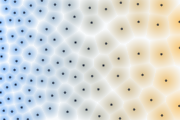
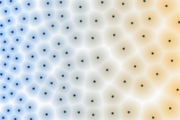
docs(spatial2d): refresh poisson disk sampling snapshots

diff --git a/docs/Spatial2D/sampling/poisson-disk-sampling.md b/docs/Spatial2D/sampling/poisson-disk-sampling.md
@@ -6,8 +6,6 @@
 
 ```csharp
 using System;
-using System.Collections.Generic;
-using System.IO;
 using Akeldov.Math.Spatial2D;
 using Akeldov.Math.Spatial2D.Fields;
 using Akeldov.Math.Spatial2D.Imaging;
@@ -15,98 +13,47 @@ using Akeldov.Math.Spatial2D.Rasterization;
 using Akeldov.Math.Spatial2D.Sampling.Point.PoissonDisk;
 
 var fieldSize = new VectorXY(120f, 80f);
-var grid = new RasterGrid(
-    origin: new PointXY(0f, 0f),
-    size: fieldSize,
-    resolution: new VectorXYInt(180, 120));
+var grid = new RasterGrid(new PointXY(0f, 0f), fieldSize, new VectorXYInt(180, 120));
 
-var sampler = new PoissonDiskPointSampler(new Random(12345), maxAttempts: 30);
-var distanceField = new HorizontalDistanceField(min: 5f, max: 13f, width: fieldSize.X);
+var sampler = new PoissonDiskPointSampler(new Random(45678), maxAttempts: 30);
+var distanceField = new FloatPointInfluenceField(
+    new BarycentricFloatSampler<FloatPointInfluenceSource>(),
+    new[]
+    {
+        new FloatPointInfluenceSource(1f, new PointXY(0f, 0f), 5f),
+        new FloatPointInfluenceSource(1f, new PointXY(fieldSize.X, 0f), 13f)
+    });
 
-List<PoissonDiskPointSample> samples =
-    sampler.Sample(fieldSize, distanceField);
+var samples = sampler.Sample(fieldSize, distanceField);
 
-RGBA16BitRaster raster = samples.Rasterize(grid, ToSnapshotColor);
-Directory.CreateDirectory("artifacts");
-raster.SaveAsPng(Path.Combine("artifacts", "poisson-disk-samples-rgba16.png"));
-
-static RGBA16BitColor ToSnapshotColor(PoissonDiskPointSample sample, float distance)
+var raster = samples.Rasterize(grid, (sample, distance) =>
 {
     float distanceT = MathF.Min(distance / sample.MinimalDistance, 1f);
     float distanceFill = (1f - distanceT) * 0.55f;
     float radiusT = MathF.Min(MathF.Max((sample.MinimalDistance - 5f) / 8f, 0f), 1f);
 
-    Rgb background = new Rgb(0.972f, 0.980f, 0.988f);
-    Rgb smallDistance = new Rgb(0.125f, 0.510f, 0.965f);
-    Rgb largeDistance = new Rgb(0.961f, 0.620f, 0.043f);
-    Rgb diskColor = Blend(smallDistance, largeDistance, radiusT);
-    Rgb color = Blend(background, diskColor, distanceFill);
-
+    float red = Blend(0.972f, Blend(0.125f, 0.961f, radiusT), distanceFill);
+    float green = Blend(0.980f, Blend(0.510f, 0.620f, radiusT), distanceFill);
+    float blue = Blend(0.988f, Blend(0.965f, 0.043f, radiusT), distanceFill);
     float pointAmount = MathF.Max(0f, 1f - distance / 1.15f);
-    return Blend(color, new Rgb(0.058f, 0.090f, 0.165f), pointAmount)
-        .ToRGBA16BitColor();
+
+    return new RGBA16BitColor(
+        red: ToChannel(Blend(red, 0.058f, pointAmount)),
+        green: ToChannel(Blend(green, 0.090f, pointAmount)),
+        blue: ToChannel(Blend(blue, 0.165f, pointAmount)),
+        alpha: ushort.MaxValue);
+});
+
+raster.SaveAsPng("poisson-disk-samples-rgba16.png");
+
+static float Blend(float from, float to, float amount)
+{
+    return from * (1f - amount) + to * amount;
 }
 
-static Rgb Blend(Rgb from, Rgb to, float amount)
+static ushort ToChannel(float value)
 {
-    amount = MathF.Min(MathF.Max(amount, 0f), 1f);
-    float inverseAmount = 1f - amount;
-
-    return new Rgb(
-        from.Red * inverseAmount + to.Red * amount,
-        from.Green * inverseAmount + to.Green * amount,
-        from.Blue * inverseAmount + to.Blue * amount);
-}
-
-readonly struct Rgb
-{
-    public Rgb(float red, float green, float blue)
-    {
-        Red = red;
-        Green = green;
-        Blue = blue;
-    }
-
-    public float Red { get; }
-
-    public float Green { get; }
-
-    public float Blue { get; }
-
-    public RGBA16BitColor ToRGBA16BitColor()
-    {
-        return new RGBA16BitColor(ToChannel(Red), ToChannel(Green), ToChannel(Blue), ushort.MaxValue);
-    }
-
-    private static ushort ToChannel(float value)
-    {
-        value = MathF.Min(MathF.Max(value, 0f), 1f);
-        return (ushort)MathF.Round(value * ushort.MaxValue);
-    }
-}
-
-public sealed class HorizontalDistanceField : IFloatField
-{
-    private readonly float _min;
-    private readonly float _max;
-    private readonly float _width;
-
-    public HorizontalDistanceField(float min, float max, float width)
-    {
-        _min = min;
-        _max = max;
-        _width = width;
-    }
-
-    public float Min => _min;
-    public float Max => _max;
-
-    public float Sample(PointXY point)
-    {
-        float t = point.X / _width;
-        t = MathF.Max(0f, MathF.Min(1f, t));
-        return _min + (_max - _min) * t;
-    }
+    return (ushort)MathF.Round(Math.Clamp(value, 0f, 1f) * ushort.MaxValue);
 }
 ```
 
@@ -116,61 +63,35 @@ public sealed class HorizontalDistanceField : IFloatField
 
 ```csharp
 using System;
-using System.Collections.Generic;
-using System.IO;
 using Akeldov.Math.Spatial2D;
 using Akeldov.Math.Spatial2D.Fields;
-using Akeldov.Math.Spatial2D.Imaging;
 using Akeldov.Math.Spatial2D.Rasterization;
 using Akeldov.Math.Spatial2D.Sampling.Point.PoissonDisk;
 
 var fieldSize = new VectorXY(120f, 80f);
-var grid = new RasterGrid(
-    origin: new PointXY(0f, 0f),
-    size: fieldSize,
-    resolution: new VectorXYInt(180, 120));
+var grid = new RasterGrid(new PointXY(0f, 0f), fieldSize, new VectorXYInt(180, 120));
 
-var sampler = new PoissonDiskPointSampler(new Random(12345), maxAttempts: 30);
-var distanceField = new HorizontalDistanceField(min: 5f, max: 13f, width: fieldSize.X);
-
-List<PoissonDiskPointSample> samples =
-    sampler.Sample(fieldSize, distanceField);
-
-Gray16BitRaster raster = samples.Rasterize(
-    grid,
-    new PoissonDiskPointSampleCollectionRingsGray16BitRasterizer(
-        pointRadius: 1.45f,
-        ringThickness: 0.18f,
-        backgroundGrayLevel: 0x1010,
-        ringGrayLevel: 0x8a8a,
-        pointGrayLevel: ushort.MaxValue));
-
-Directory.CreateDirectory("artifacts");
-raster.SaveAsPng(Path.Combine("artifacts", "poisson-disk-samples-rings-gray16.png"));
-
-public sealed class HorizontalDistanceField : IFloatField
-{
-    private readonly float _min;
-    private readonly float _max;
-    private readonly float _width;
-
-    public HorizontalDistanceField(float min, float max, float width)
+var sampler = new PoissonDiskPointSampler(new Random(45678), maxAttempts: 30);
+var distanceField = new FloatPointInfluenceField(
+    new BarycentricFloatSampler<FloatPointInfluenceSource>(),
+    new[]
     {
-        _min = min;
-        _max = max;
-        _width = width;
-    }
+        new FloatPointInfluenceSource(1f, new PointXY(0f, 0f), 5f),
+        new FloatPointInfluenceSource(1f, new PointXY(fieldSize.X, 0f), 13f)
+    });
 
-    public float Min => _min;
-    public float Max => _max;
+var samples = sampler.Sample(fieldSize, distanceField);
 
-    public float Sample(PointXY point)
-    {
-        float t = point.X / _width;
-        t = MathF.Max(0f, MathF.Min(1f, t));
-        return _min + (_max - _min) * t;
-    }
-}
+var rasterizer = new PoissonDiskPointSampleCollectionRingsGray16BitRasterizer(
+    pointRadius: 1.45f,
+    ringThickness: 0.18f,
+    backgroundGrayLevel: 0x1010,
+    ringGrayLevel: 0x8a8a,
+    pointGrayLevel: ushort.MaxValue);
+
+var raster = samples.Rasterize(grid, rasterizer);
+
+raster.SaveAsPng("poisson-disk-samples-rings-gray16.png");
 ```
 
 ![Poisson disk samples rendered with minimal-distance rings](../../assets/spatial2d/poisson-disk/poisson-disk-samples-rings-gray16.png)
